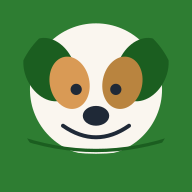
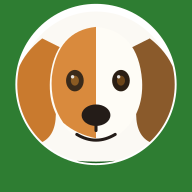
feat: updating brand assets

diff --git a/components/brand-logo.tsx b/components/brand-logo.tsx
@@ -35,17 +35,27 @@ export function BrandMark({
       </defs>
       <circle cx="50" cy="50" r="49" fill="#2E7D32" />
       <g clipPath={`url(#${clipId})`}>
-        <circle cx="50" cy="46" r="40" fill="#FAF6EF" />
-        <ellipse cx="22" cy="34" rx="15" ry="20" fill="#1B5E20" transform="rotate(-25 22 34)" />
-        <ellipse cx="78" cy="34" rx="15" ry="20" fill="#1B5E20" transform="rotate(25 78 34)" />
-        <ellipse cx="34" cy="42" rx="12" ry="16" fill="#D99A55" transform="rotate(-12 34 42)" />
-        <ellipse cx="66" cy="42" rx="12" ry="16" fill="#B9843F" transform="rotate(12 66 42)" />
-        <circle cx="38" cy="46" r="3.4" fill="#1F2937" />
-        <circle cx="62" cy="46" r="3.4" fill="#1F2937" />
-        <ellipse cx="50" cy="62" rx="8" ry="6" fill="#1F2937" />
-        <path d="M30 68 Q50 82 70 68" stroke="#1F2937" strokeWidth="2.4" fill="none" strokeLinecap="round" />
-        <path d="M0 74 Q50 96 100 74 L100 100 L0 100 Z" fill="#2E7D32" />
-        <path d="M0 74 Q50 92 100 74" stroke="#1B5E20" strokeWidth="2" fill="none" />
+        <circle cx="50" cy="46" r="40" fill="#FBF9F4" />
+        {/* Ears */}
+        <path d="M22 20 Q4 34 8 56 Q10 68 22 74 Q30 70 29 56 Q28 40 34 26 Z" fill="#C97A2E" />
+        <path d="M78 20 Q96 34 92 56 Q90 68 78 74 Q70 70 71 56 Q72 40 66 26 Z" fill="#8A5A2B" />
+        {/* Face, with the tan left-side marking */}
+        <path d="M50 14 Q72 16 74 42 Q75 60 62 70 Q56 74 50 74 Q44 74 38 70 Q25 60 26 42 Q28 16 50 14 Z" fill="#FEFCF6" />
+        <path d="M50 14 Q30 16 27 40 Q26 54 33 64 Q40 70 50 72 L50 14 Z" fill="#D98A3D" />
+        {/* Eyes */}
+        <ellipse cx="39" cy="42" rx="4.6" ry="5.6" fill="#3A2A1A" />
+        <ellipse cx="39" cy="42" rx="2.1" ry="2.6" fill="#8A5A22" />
+        <circle cx="37.8" cy="40" r="0.9" fill="#FFFFFF" opacity="0.85" />
+        <ellipse cx="63" cy="42" rx="4.6" ry="5.6" fill="#2A1E14" />
+        <ellipse cx="63" cy="42" rx="2.1" ry="2.6" fill="#6B4419" />
+        <circle cx="61.8" cy="40" r="0.9" fill="#FFFFFF" opacity="0.85" />
+        {/* Snout + mouth */}
+        <ellipse cx="50" cy="60" rx="7.5" ry="5.6" fill="#241C18" />
+        <path d="M50 64 L50 68" stroke="#241C18" strokeWidth="1.6" strokeLinecap="round" />
+        <path d="M40 70 Q50 76 60 70" stroke="#241C18" strokeWidth="1.6" fill="none" strokeLinecap="round" />
+        {/* Bowl */}
+        <path d="M4 78 Q50 96 96 78 L96 100 L4 100 Z" fill="#2E7D32" />
+        <path d="M4 78 Q50 96 96 78" stroke="#1B5E20" strokeWidth="1.6" fill="none" />
       </g>
     </svg>
   )
